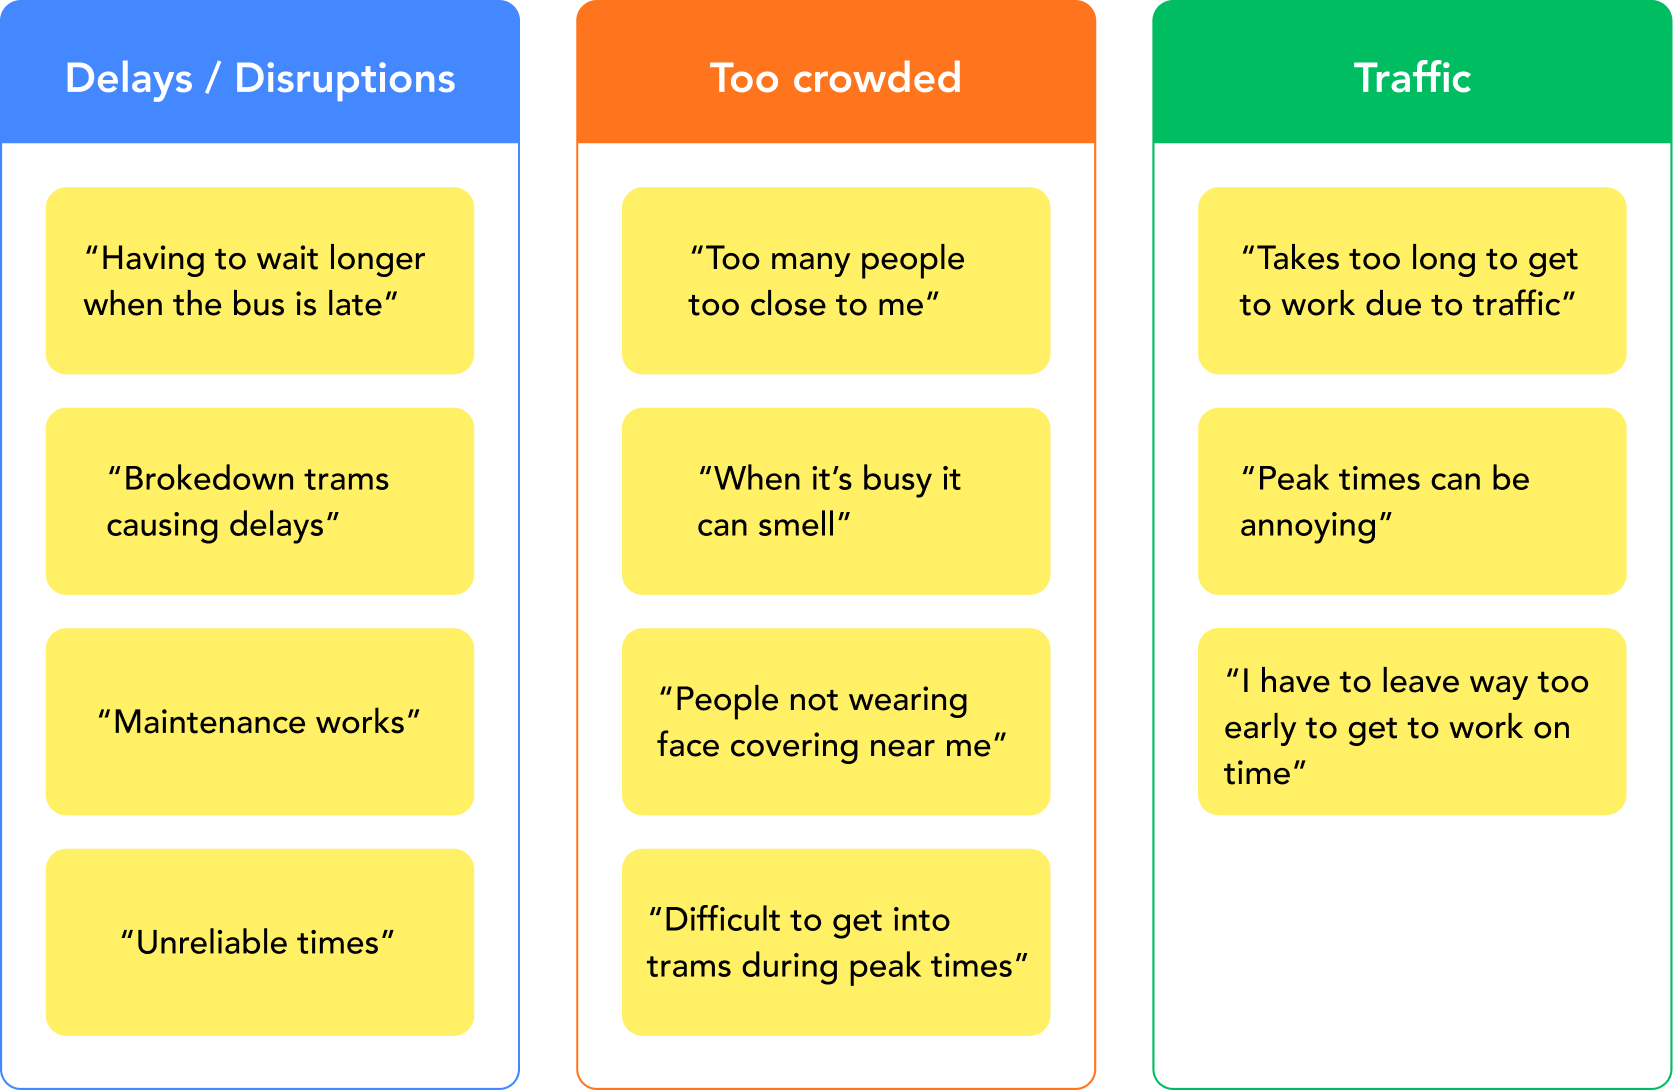
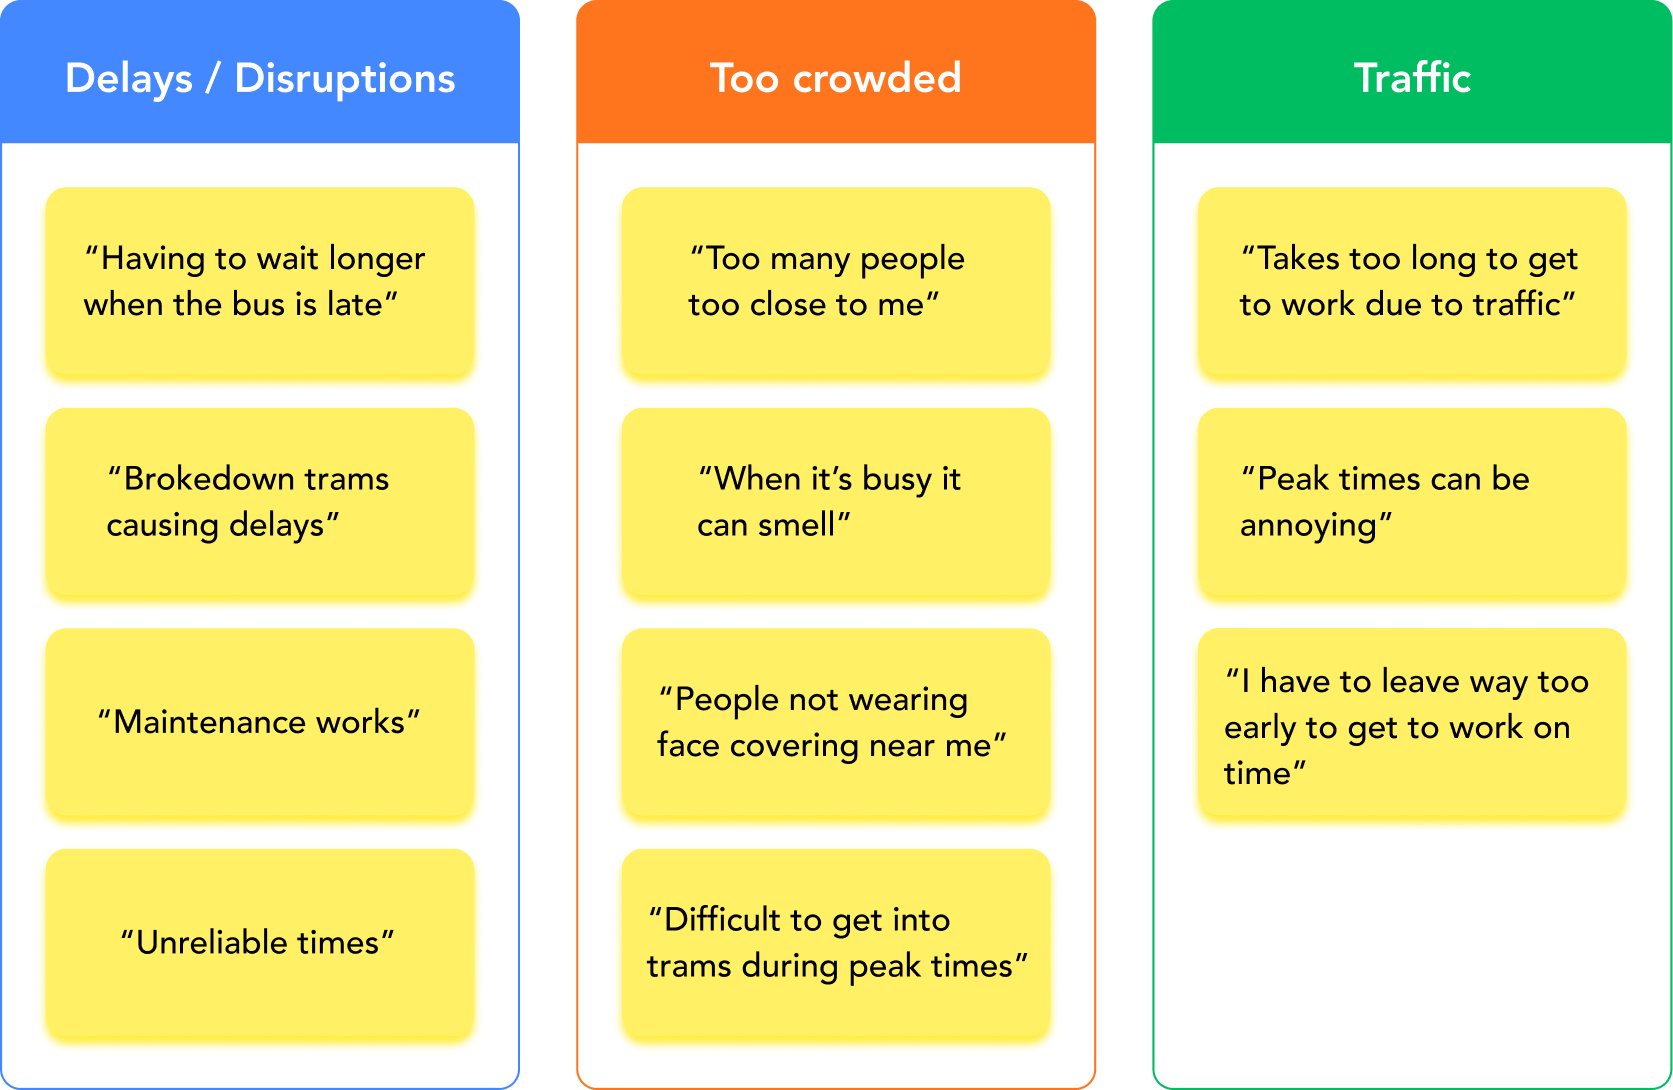
better illustrations

diff --git a/journey_planner.html b/journey_planner.html
@@ -80,14 +80,14 @@
 
                     <strong>Survey finding:</strong><br><br>
                     20 participants who regularly commute to Manchester by either bus, tram or train were recruited from "Mint Manchester" Facebook group to gather their pain points.<br><br>
-                    Here are some examples which were categorised using an affinity map:
+                    Here are the recurrent themes which were categorised using an affinity map:
                 </p>  <br>
                 <img src="images/journey_planner/affinity_map.png">
             </section> 
 
             <section class="competitors">
                 <h2>Competitor Analysis</h2>
-                <h3>Let's take a look of what existing journey planner apps can offer</h3>
+                <h3>Let's take a look at what existing journey planner apps can offer</h3>
                 <p><strong>Take away:</strong> Google Maps seems to offer a more complete range of useful features that cover commuters pain points, however <strong>there are common points amongst competitors that suggest a gap in features that could make commuters' life much easier.</strong></p><br>
                 <img src="images/journey_planner/competitors.png">
                
@@ -119,8 +119,8 @@
                     <li>How would you compare they way you approached the situation in the past with the solution presented in this scenario?</li> 
                     <li>Bonus Question: How do you feel about making eco-friendly choices?</li> 
                 </ul> 
-                <p><strong>Key Findings:</strong></p>
-                <img src="images/journey_planner/validation_insights.png">
+                <p><strong>Key Findings:</strong></p><br>
+                <img src="images/journey_planner/validation_insights2.png">
             </section>
 
             <section class="next-steps">
